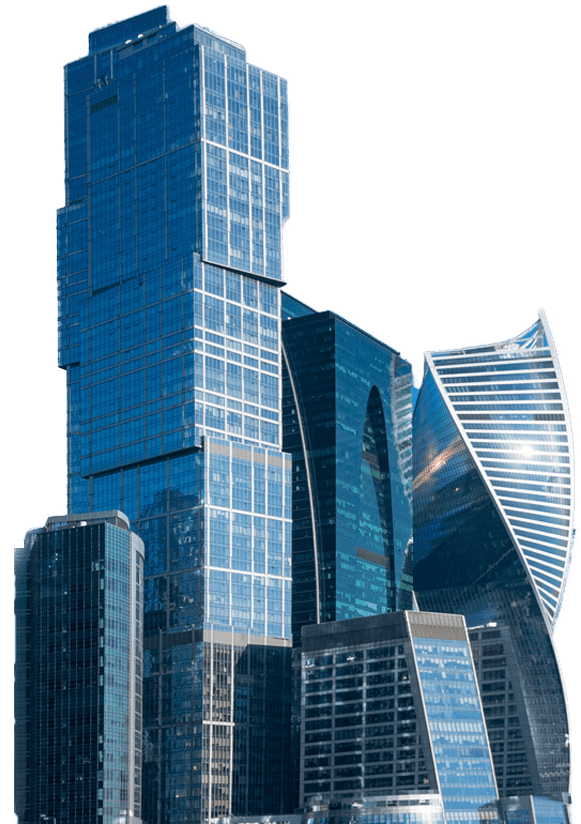
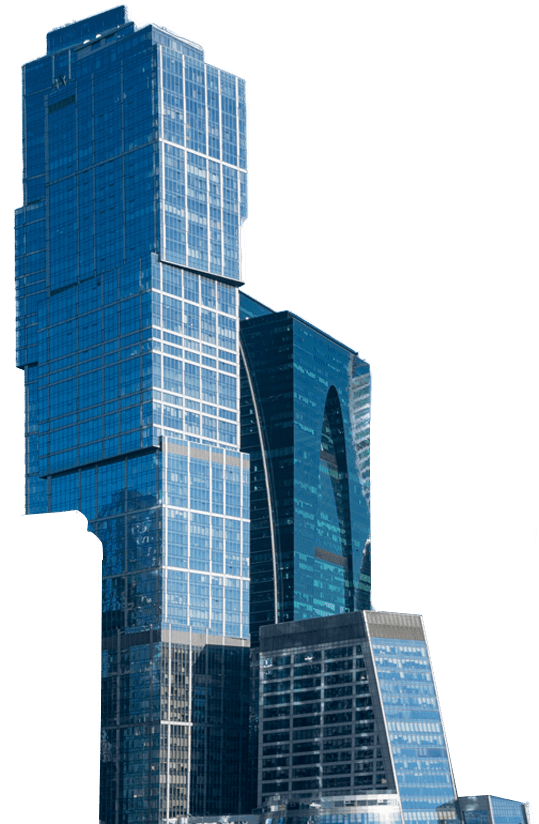
Updates

diff --git a/css/style.min.css b/css/style.min.css
@@ -1,1 +1,1 @@
-@charset "UTF-8";@font-face{font-family:Montserrat;font-display:swap;src:url(../fonts/Montserrat-SemiBold.woff2) format("woff2"),url(../fonts/Montserrat-SemiBold.woff) format("woff");font-weight:600;font-style:normal}input[type=text]::-ms-clear{display:none;width:0;height:0}input[type=text]::-ms-reveal{display:none;width:0;height:0}input[type=search]::-webkit-search-cancel-button,input[type=search]::-webkit-search-decoration,input[type=search]::-webkit-search-results-button,input[type=search]::-webkit-search-results-decoration{display:none}*{padding:0;margin:0;border:0}*,:after,:before{-webkit-box-sizing:border-box;box-sizing:border-box}:active,:focus{outline:0}a:active,a:focus{outline:0}aside,footer,header,nav{display:block}body,html{height:100%;width:100%;font-size:100%;line-height:1;font-size:14px;-ms-text-size-adjust:100%;-moz-text-size-adjust:100%;-webkit-text-size-adjust:100%}button,input,textarea{font-family:inherit}input::-ms-clear{display:none}button{cursor:pointer}button::-moz-focus-inner{padding:0;border:0}a,a:visited{text-decoration:none}a:hover{text-decoration:none}ul li{list-style:none}ol li{list-style:none}img{vertical-align:top}h1,h2,h3,h4,h5,h6{font-size:inherit;font-weight:inherit}body,html{font-family:Montserrat;font-size:16px;line-height:130%;color:#4d5154;font-weight:400;scrollbar-width:4px;scrollbar-color:#ffc800 #fff}body::-webkit-scrollbar,html::-webkit-scrollbar{width:4px;height:4px}body::-webkit-scrollbar-track,html::-webkit-scrollbar-track{background:0 0}body::-webkit-scrollbar-thumb,html::-webkit-scrollbar-thumb{background-color:#ffc800;border-radius:20px;border:1px solid transparent}body.lock{overflow:hidden}img{max-width:100%;-o-object-fit:cover;object-fit:cover;-o-object-position:center;object-position:center}svg{max-width:100%}.visually-hidden{position:absolute;width:1px;height:1px;margin:-1px;border:0;padding:0;white-space:nowrap;-webkit-clip-path:inset(100%);clip-path:inset(100%);clip:rect(0 0 0 0);overflow:hidden}.wrapper{min-height:100vh;display:-webkit-box;display:-ms-flexbox;display:flex;-webkit-box-orient:vertical;-webkit-box-direction:normal;-ms-flex-direction:column;flex-direction:column;overflow:hidden}.container{max-width:1240px;margin:0 auto;padding:0 15px}.page{-webkit-box-flex:1;-ms-flex:1 1 auto;flex:1 1 auto}.hero-parallax{padding:32px 0;position:relative;height:100vh;display:-webkit-box;display:-ms-flexbox;display:flex;-webkit-box-align:center;-ms-flex-align:center;align-items:center;-webkit-box-pack:center;-ms-flex-pack:center;justify-content:center}.hero-parallax__body{margin-top:-20px;display:-webkit-box;display:-ms-flexbox;display:flex;-webkit-box-align:center;-ms-flex-align:center;align-items:center;-webkit-box-pack:center;-ms-flex-pack:center;justify-content:center;-webkit-box-orient:vertical;-webkit-box-direction:normal;-ms-flex-direction:column;flex-direction:column}.hero-parallax__title{font-size:164px;line-height:120%;color:#fff;position:relative;z-index:2;left:50%;-webkit-transform:translateX(-50%);-ms-transform:translateX(-50%);transform:translateX(-50%);-webkit-transition:all .7s cubic-bezier(.2,.49,.32,.99) 0s;-o-transition:all .7s cubic-bezier(.2,.49,.32,.99) 0s;transition:all .7s cubic-bezier(.2,.49,.32,.99) 0s}.parallax-scene{position:absolute;top:0;left:0;width:100%;height:100%}.parallax-scene__item{pointer-events:none;-webkit-transition:all .7s cubic-bezier(.2,.49,.32,.99) 0s;-o-transition:all .7s cubic-bezier(.2,.49,.32,.99) 0s;transition:all .7s cubic-bezier(.2,.49,.32,.99) 0s}.parallax-scene__bg{position:absolute;top:50%;left:50%;width:120%;height:120%;-webkit-transform:translate(-50%,-50%);-ms-transform:translate(-50%,-50%);transform:translate(-50%,-50%)}.parallax-scene__bg img{width:100%;height:100%;-o-object-fit:cover;object-fit:cover;-o-object-position:center;object-position:center}.parallax-scene__right-buildings{position:absolute;bottom:-15%;left:76.7%;-webkit-transform:translateX(-50%);-ms-transform:translateX(-50%);transform:translateX(-50%);width:30.265%}.parallax-scene__right-buildings img{width:100%}.parallax-scene__fog-on-right{position:absolute;bottom:-10%;left:90%;width:43.5%;-webkit-transform:translateX(-50%);-ms-transform:translateX(-50%);transform:translateX(-50%)}.parallax-scene__fog-under-left{position:absolute;bottom:-10%;left:5%;-webkit-transform:translateX(-50%);-ms-transform:translateX(-50%);transform:translateX(-50%)}.parallax-scene__fog-between-left-center{position:absolute;bottom:-10%;left:43.5%;-webkit-transform:translateX(-50%);-ms-transform:translateX(-50%);transform:translateX(-50%)}.parallax-scene__left-buildings{position:absolute;bottom:-11%;left:25%;-webkit-transform:translateX(-50%);-ms-transform:translateX(-50%);transform:translateX(-50%);width:30.26%}.parallax-scene__left-buildings img{width:100%}.parallax-scene__fog-on-left{position:absolute;bottom:-10%;left:93.4%;-webkit-transform:translateX(-50%);-ms-transform:translateX(-50%);transform:translateX(-50%)}.parallax-scene__center-back-building{position:absolute;bottom:-10%;left:50.3%;-webkit-transform:translateX(-49%);-ms-transform:translateX(-49%);transform:translateX(-49%);width:28.45%}.parallax-scene__center-back-building img{width:100%}.parallax-scene__center-front-building{position:absolute;bottom:-10%;left:51.1%;-webkit-transform:translateX(-50%);-ms-transform:translateX(-50%);transform:translateX(-50%);z-index:2;width:22.71%}.parallax-scene__center-front-building img{width:100%}.parallax-scene__fog-on-right-second{position:absolute;bottom:-10%;left:77%;width:66%;-webkit-transform:translateX(-50%);-ms-transform:translateX(-50%);transform:translateX(-50%);z-index:3}.parallax-scene__fog-on-right-second img{width:100%;height:100%;-o-object-fit:cover;object-fit:cover}@media (min-width:1200px){.hero-parallax__container{max-width:unset}}@media (max-width:1440px){.hero-parallax__title{font-size:96px}}@media (max-width:1440px) and (min-height:700px){.parallax-scene__right-buildings{width:33.265%}.parallax-scene__left-buildings{width:33.25%}.parallax-scene__center-back-building{width:31.45%}.parallax-scene__center-front-building{width:25.71%}}@media (max-width:1200px){.container{max-width:960px}}@media (max-width:992px){.container{max-width:720px}}@media (max-width:768px){.container{max-width:540px}}@media (max-width:576px){.container{max-width:none;padding:0 16px}}
+@charset "UTF-8";@font-face{font-family:Montserrat;font-display:swap;src:url(../fonts/Montserrat-SemiBold.woff2) format("woff2"),url(../fonts/Montserrat-SemiBold.woff) format("woff");font-weight:600;font-style:normal}input[type=text]::-ms-clear{display:none;width:0;height:0}input[type=text]::-ms-reveal{display:none;width:0;height:0}input[type=search]::-webkit-search-cancel-button,input[type=search]::-webkit-search-decoration,input[type=search]::-webkit-search-results-button,input[type=search]::-webkit-search-results-decoration{display:none}*{padding:0;margin:0;border:0}*,:after,:before{-webkit-box-sizing:border-box;box-sizing:border-box}:active,:focus{outline:0}a:active,a:focus{outline:0}aside,footer,header,nav{display:block}body,html{height:100%;width:100%;font-size:100%;line-height:1;font-size:14px;-ms-text-size-adjust:100%;-moz-text-size-adjust:100%;-webkit-text-size-adjust:100%}button,input,textarea{font-family:inherit}input::-ms-clear{display:none}button{cursor:pointer}button::-moz-focus-inner{padding:0;border:0}a,a:visited{text-decoration:none}a:hover{text-decoration:none}ul li{list-style:none}ol li{list-style:none}img{vertical-align:top}h1,h2,h3,h4,h5,h6{font-size:inherit;font-weight:inherit}body,html{font-family:Montserrat;font-size:16px;line-height:130%;color:#4d5154;font-weight:400;scrollbar-width:4px;scrollbar-color:#ffc800 #fff}body::-webkit-scrollbar,html::-webkit-scrollbar{width:4px;height:4px}body::-webkit-scrollbar-track,html::-webkit-scrollbar-track{background:0 0}body::-webkit-scrollbar-thumb,html::-webkit-scrollbar-thumb{background-color:#ffc800;border-radius:20px;border:1px solid transparent}body.lock{overflow:hidden}img{max-width:100%;-o-object-fit:cover;object-fit:cover;-o-object-position:center;object-position:center}svg{max-width:100%}.visually-hidden{position:absolute;width:1px;height:1px;margin:-1px;border:0;padding:0;white-space:nowrap;-webkit-clip-path:inset(100%);clip-path:inset(100%);clip:rect(0 0 0 0);overflow:hidden}.wrapper{min-height:100vh;display:-webkit-box;display:-ms-flexbox;display:flex;-webkit-box-orient:vertical;-webkit-box-direction:normal;-ms-flex-direction:column;flex-direction:column;overflow:hidden}.container{max-width:1240px;margin:0 auto;padding:0 15px}.page{-webkit-box-flex:1;-ms-flex:1 1 auto;flex:1 1 auto}.hero-parallax{padding:32px 0;position:relative;height:100vh;display:-webkit-box;display:-ms-flexbox;display:flex;-webkit-box-align:center;-ms-flex-align:center;align-items:center;-webkit-box-pack:center;-ms-flex-pack:center;justify-content:center}.hero-parallax__body{margin-top:-20px;display:-webkit-box;display:-ms-flexbox;display:flex;-webkit-box-align:center;-ms-flex-align:center;align-items:center;-webkit-box-pack:center;-ms-flex-pack:center;justify-content:center;-webkit-box-orient:vertical;-webkit-box-direction:normal;-ms-flex-direction:column;flex-direction:column}.hero-parallax__title{font-size:164px;line-height:120%;color:#fff;position:relative;z-index:2;left:50%;-webkit-transform:translateX(-50%);-ms-transform:translateX(-50%);transform:translateX(-50%);-webkit-transition:all .7s cubic-bezier(.2,.49,.32,.99) 0s;-o-transition:all .7s cubic-bezier(.2,.49,.32,.99) 0s;transition:all .7s cubic-bezier(.2,.49,.32,.99) 0s}.parallax-scene{position:absolute;top:0;left:0;width:100%;height:100%}.parallax-scene__item{pointer-events:none;-webkit-transition:all .7s cubic-bezier(.2,.49,.32,.99) 0s;-o-transition:all .7s cubic-bezier(.2,.49,.32,.99) 0s;transition:all .7s cubic-bezier(.2,.49,.32,.99) 0s;will-change:transform}.parallax-scene__bg{position:absolute;top:50%;left:50%;width:120%;height:120%;-webkit-transform:translate(-50%,-50%);-ms-transform:translate(-50%,-50%);transform:translate(-50%,-50%)}.parallax-scene__bg img{width:100%;height:100%;-o-object-fit:cover;object-fit:cover;-o-object-position:center;object-position:center}.parallax-scene__right-buildings{position:absolute;bottom:-10%;left:77.8%;-webkit-transform:translateX(-50%);-ms-transform:translateX(-50%);transform:translateX(-50%);width:28.065%}.parallax-scene__right-buildings img{width:100%}.parallax-scene__evolution{position:absolute;bottom:-14%;left:86.2%;-webkit-transform:translateX(-50%);-ms-transform:translateX(-50%);transform:translateX(-50%);width:10%}.parallax-scene__evolution img{width:100%}.parallax-scene__2000{position:absolute;bottom:-10%;left:66.4%;-webkit-transform:translateX(-50%);-ms-transform:translateX(-50%);transform:translateX(-50%);width:7.5%}.parallax-scene__2000 img{width:100%}.parallax-scene__fog-on-right{position:absolute;bottom:-10%;left:90%;width:43.5%;-webkit-transform:translateX(-50%);-ms-transform:translateX(-50%);transform:translateX(-50%)}.parallax-scene__fog-under-left{position:absolute;bottom:-10%;left:5%;-webkit-transform:translateX(-50%);-ms-transform:translateX(-50%);transform:translateX(-50%)}.parallax-scene__fog-between-left-center{position:absolute;bottom:-10%;left:43.5%;-webkit-transform:translateX(-50%);-ms-transform:translateX(-50%);transform:translateX(-50%)}.parallax-scene__oko{position:absolute;bottom:-15%;left:15.3%;-webkit-transform:translate(-50%);-ms-transform:translate(-50%);transform:translate(-50%);width:8.92%}.parallax-scene__oko img{width:100%}.parallax-scene__iq-big{position:absolute;bottom:-11%;left:24.5%;-webkit-transform:translateX(-50%);-ms-transform:translateX(-50%);transform:translateX(-50%);width:30.261%}.parallax-scene__iq-big img{width:100%}.parallax-scene__eurasia{position:absolute;bottom:-13.2%;left:29%;-webkit-transform:translateX(-50%);-ms-transform:translateX(-50%);transform:translateX(-50%);width:13.334%}.parallax-scene__eurasia img{width:100%}.parallax-scene__iq-small{position:absolute;bottom:-8%;left:22%;-webkit-transform:translateX(-50%);-ms-transform:translateX(-50%);transform:translateX(-50%);width:16.2%}.parallax-scene__iq-small img{width:100%}.parallax-scene__fog-on-left{position:absolute;bottom:-10%;left:93.4%;-webkit-transform:translateX(-50%);-ms-transform:translateX(-50%);transform:translateX(-50%)}.parallax-scene__center-back-building{position:absolute;bottom:-10%;left:50.3%;-webkit-transform:translateX(-49%);-ms-transform:translateX(-49%);transform:translateX(-49%);width:28.45%}.parallax-scene__center-back-building img{width:100%}.parallax-scene__center-front-building{position:absolute;bottom:-10%;left:51.1%;-webkit-transform:translateX(-50%);-ms-transform:translateX(-50%);transform:translateX(-50%);z-index:2;width:22.71%}.parallax-scene__center-front-building img{width:100%}.parallax-scene__fog-on-right-second{position:absolute;bottom:-10%;left:77%;width:66%;-webkit-transform:translateX(-50%);-ms-transform:translateX(-50%);transform:translateX(-50%);z-index:3}.parallax-scene__fog-on-right-second img{width:100%;height:100%;-o-object-fit:cover;object-fit:cover}@media (min-width:1200px){.hero-parallax__container{max-width:unset}}@media (max-width:1440px){.hero-parallax__title{font-size:96px}}@media (max-width:1440px) and (min-height:700px){.parallax-scene__right-buildings{width:33.265%}.parallax-scene__center-back-building{width:31.45%}.parallax-scene__center-front-building{width:25.71%}}@media (max-width:1200px){.container{max-width:960px}}@media (max-width:992px){.container{max-width:720px}}@media (max-width:768px){.container{max-width:540px}}@media (max-width:576px){.container{max-width:none;padding:0 16px}}

diff --git a/index.html b/index.html
@@ -17,7 +17,7 @@
             <section class="hero-parallax">
     <div class="hero-parallax__container container">
         <div class="hero-parallax__body">
-            <h1 data-parallax="x=0.07,y=0.07,z=0,rotation=1" class="hero-parallax__title">
+            <h1 data-parallax="x=0.06,y=0.06,z=0,rotation=0.5" class="hero-parallax__title">
                 BIM association
             </h1>
         </div>
@@ -25,39 +25,53 @@
             <div data-parallax="x=0.2,y=0.2,z=0,rotation=0" class="parallax-scene__item parallax-scene__bg">
                 <img src="images/blocks/hero-parallax/bg.png" alt="Background" title="Background">
             </div>
-            <div data-parallax="x=0.2,y=0.2,z=0.2,rotation=1"
+            <div data-parallax="x=0.11,y=0.2,z=0.08, rotation=1" class="parallax-scene__item parallax-scene__evolution">
+                <img src="images/blocks/hero-parallax/evolution.png" alt="Tower Evolution" title="Tower Evolution">
+            </div>
+            <div data-parallax="x=0.1,y=0.17,z=0.09, rotation=1"
                 class="parallax-scene__item parallax-scene__right-buildings">
                 <img src="images/blocks/hero-parallax/right-buildings.png" alt="Right buildings" title="Right buildings">
             </div>
-            <div data-parallax="x=0.2,y=0.2,z=0,rotation=0" class="parallax-scene__item parallax-scene__fog-on-right">
+            <div data-parallax="x=0.09,y=0.15,z=0.1, rotation=1" class="parallax-scene__item parallax-scene__2000">
+                <img src="images/blocks/hero-parallax/building-2000.png" alt="Tower 2000" title="Tower 2000">
+            </div>
+            <div data-parallax="x=0.15,y=0.2,z=0,rotation=0" class="parallax-scene__item parallax-scene__fog-on-right">
                 <img src="images/blocks/hero-parallax/fog-on-right.png" alt="Fog on left" title="Fog on left">
             </div>
-            <div data-parallax="x=0.3,y=0.2,z=0,rotation=0" class="parallax-scene__item parallax-scene__fog-under-left">
+            <div data-parallax="x=0.155,y=0.2,z=0,rotation=0" class="parallax-scene__item parallax-scene__fog-under-left">
                 <img src="images/blocks/hero-parallax/fog-under-left.png" alt="Fog under left" title="Fog under left">
             </div>
-            <div data-parallax="x=0.3,y=0.2,z=0,rotation=0"
+            <div data-parallax="x=0.15,y=0.2,z=0,rotation=0"
                 class="parallax-scene__item parallax-scene__fog-between-left-center">
                 <img src="images/blocks/hero-parallax/fog-between-left-center.png" alt="Fog between left and center"
                     title="Fog between left and center">
             </div>
-            <div data-parallax="x=0.2,y=0.2,z=0.2,rotation=1"
-                class="parallax-scene__item parallax-scene__left-buildings">
-                <img src="images/blocks/hero-parallax/left-buildings.png" alt="Left buildings" title="Left buildings">
+            <div data-parallax="x=0.095,y=0.2,z=0.06,rotation=1" class="parallax-scene__item parallax-scene__oko">
+                <img src="images/blocks/hero-parallax/building-oko.png" alt="Building oko" title="Building oko">
             </div>
-            <div data-parallax="x=0.2,y=0.2,z=0,rotation=0" class="parallax-scene__item parallax-scene__fog-on-left">
+            <div data-parallax="x=0.095,y=0.2,z=0.06,rotation=1" class="parallax-scene__item parallax-scene__eurasia">
+                <img src="images/blocks/hero-parallax/eurasia.png" alt="Eurasia Tower" title="Eurasia Tower">
+            </div>
+            <div data-parallax="x=0.085,y=0.18,z=0.09,rotation=1" class="parallax-scene__item parallax-scene__iq-big">
+                <img src="images/blocks/hero-parallax/iq-big.png" alt="IQ Tower" title="IQ Tower">
+            </div>
+            <div data-parallax="x=0.08,y=0.15,z=0.1,rotation=1" class="parallax-scene__item parallax-scene__iq-small">
+                <img src="images/blocks/hero-parallax/iq-small.png" alt="IQ Tower" title="IQ Tower">
+            </div>
+            <div data-parallax="x=0.15,y=0.,z=0,rotation=0" class="parallax-scene__item parallax-scene__fog-on-left">
                 <img src="images/blocks/hero-parallax/fog-on-left.png" alt="Fog on left" title="Fog on left">
             </div>
-            <div data-parallax="x=0.1,y=0.2,z=0,rotation=0.5"
+            <div data-parallax="x=0.08,y=0.1,z=0,rotation=0.5"
                 class="parallax-scene__item parallax-scene__center-back-building">
                 <img src="images/blocks/hero-parallax/center-back-building.png" alt="Center back building"
                     title="Center back building">
             </div>
-            <div data-parallax="x=0.1,y=0.2,z=0,rotation=0.5"
+            <div data-parallax="x=0.08,y=0.1,z=0,rotation=0.5"
                 class="parallax-scene__item parallax-scene__center-front-building">
                 <img src="images/blocks/hero-parallax/center-front-building.png" alt="Center front building"
                     title="Center front building">
             </div>
-            <div data-parallax="x=0.2,y=0.2,z=0,rotation=0"
+            <div data-parallax="x=0.15,y=0.2,z=0,rotation=0"
                 class="parallax-scene__item parallax-scene__fog-on-right-second">
                 <img src="images/blocks/hero-parallax/fog-on-right-second.png" alt="Fog on right second"
                     title="Fog on right second">

diff --git a/css/style.css b/css/style.css
@@ -266,6 +266,7 @@ svg {
   -webkit-transition: all 0.7s cubic-bezier(0.2, 0.49, 0.32, 0.99) 0s;
   -o-transition: all 0.7s cubic-bezier(0.2, 0.49, 0.32, 0.99) 0s;
   transition: all 0.7s cubic-bezier(0.2, 0.49, 0.32, 0.99) 0s;
+  will-change: transform;
 }
 
 .parallax-scene__bg {
@@ -290,15 +291,43 @@ svg {
 
 .parallax-scene__right-buildings {
   position: absolute;
-  bottom: -15%;
-  left: 76.7%;
+  bottom: -10%;
+  left: 77.8%;
   -webkit-transform: translateX(-50%);
       -ms-transform: translateX(-50%);
           transform: translateX(-50%);
-  width: 30.265%;
+  width: 28.065%;
 }
 
 .parallax-scene__right-buildings img {
+  width: 100%;
+}
+
+.parallax-scene__evolution {
+  position: absolute;
+  bottom: -14%;
+  left: 86.2%;
+  -webkit-transform: translateX(-50%);
+      -ms-transform: translateX(-50%);
+          transform: translateX(-50%);
+  width: 10%;
+}
+
+.parallax-scene__evolution img {
+  width: 100%;
+}
+
+.parallax-scene__2000 {
+  position: absolute;
+  bottom: -10%;
+  left: 66.4%;
+  -webkit-transform: translateX(-50%);
+      -ms-transform: translateX(-50%);
+          transform: translateX(-50%);
+  width: 7.5%;
+}
+
+.parallax-scene__2000 img {
   width: 100%;
 }
 
@@ -330,17 +359,59 @@ svg {
           transform: translateX(-50%);
 }
 
-.parallax-scene__left-buildings {
+.parallax-scene__oko {
+  position: absolute;
+  bottom: -15%;
+  left: 15.3%;
+  -webkit-transform: translate(-50%);
+      -ms-transform: translate(-50%);
+          transform: translate(-50%);
+  width: 8.92%;
+}
+
+.parallax-scene__oko img {
+  width: 100%;
+}
+
+.parallax-scene__iq-big {
   position: absolute;
   bottom: -11%;
-  left: 25%;
+  left: 24.5%;
   -webkit-transform: translateX(-50%);
       -ms-transform: translateX(-50%);
           transform: translateX(-50%);
-  width: 30.26%;
+  width: 30.261%;
 }
 
-.parallax-scene__left-buildings img {
+.parallax-scene__iq-big img {
+  width: 100%;
+}
+
+.parallax-scene__eurasia {
+  position: absolute;
+  bottom: -13.2%;
+  left: 29%;
+  -webkit-transform: translateX(-50%);
+      -ms-transform: translateX(-50%);
+          transform: translateX(-50%);
+  width: 13.334%;
+}
+
+.parallax-scene__eurasia img {
+  width: 100%;
+}
+
+.parallax-scene__iq-small {
+  position: absolute;
+  bottom: -8%;
+  left: 22%;
+  -webkit-transform: translateX(-50%);
+      -ms-transform: translateX(-50%);
+          transform: translateX(-50%);
+  width: 16.2%;
+}
+
+.parallax-scene__iq-small img {
   width: 100%;
 }
 
@@ -415,10 +486,6 @@ svg {
 @media (max-width: 1440px) and (min-height: 700px) {
   .parallax-scene__right-buildings {
     width: 33.265%;
-  }
-
-  .parallax-scene__left-buildings {
-    width: 33.25%;
   }
 
   .parallax-scene__center-back-building {

diff --git a/js/script.js b/js/script.js
@@ -6,7 +6,7 @@ const initParallax = () => {
     if (!parallaxSection) return;
 
     const parallaxElements = document.querySelectorAll('[data-parallax]');
-    
+
     parallaxSection.addEventListener('mousemove', moveParallaxElements);
 
     function moveParallaxElements(e) {
@@ -27,8 +27,10 @@ const initParallax = () => {
                 elementCoordY = `calc(-50% + ${elementCoordY}px)`;
 
                 element.style.transform = `perspective(2300px) rotateY(${elementDegree}deg) translate3d(${elementCoordX}, ${elementCoordY}, ${zValue}px)`;
+                element.style.webkitTransform = `perspective(2300px) rotateY(${elementDegree}deg) translate3d(${elementCoordX}, ${elementCoordY}, ${zValue}px)`;
             } else {
                 element.style.transform = `perspective(2300px) rotateY(${elementDegree}deg) translate3d(calc(-50% + ${elementCoordX}px), ${elementCoordY}px, ${zValue}px)`;
+                element.style.webkitTransform = `perspective(2300px) rotateY(${elementDegree}deg) translate3d(calc(-50% + ${elementCoordX}px), ${elementCoordY}px, ${zValue}px)`;
             }
 
         })
